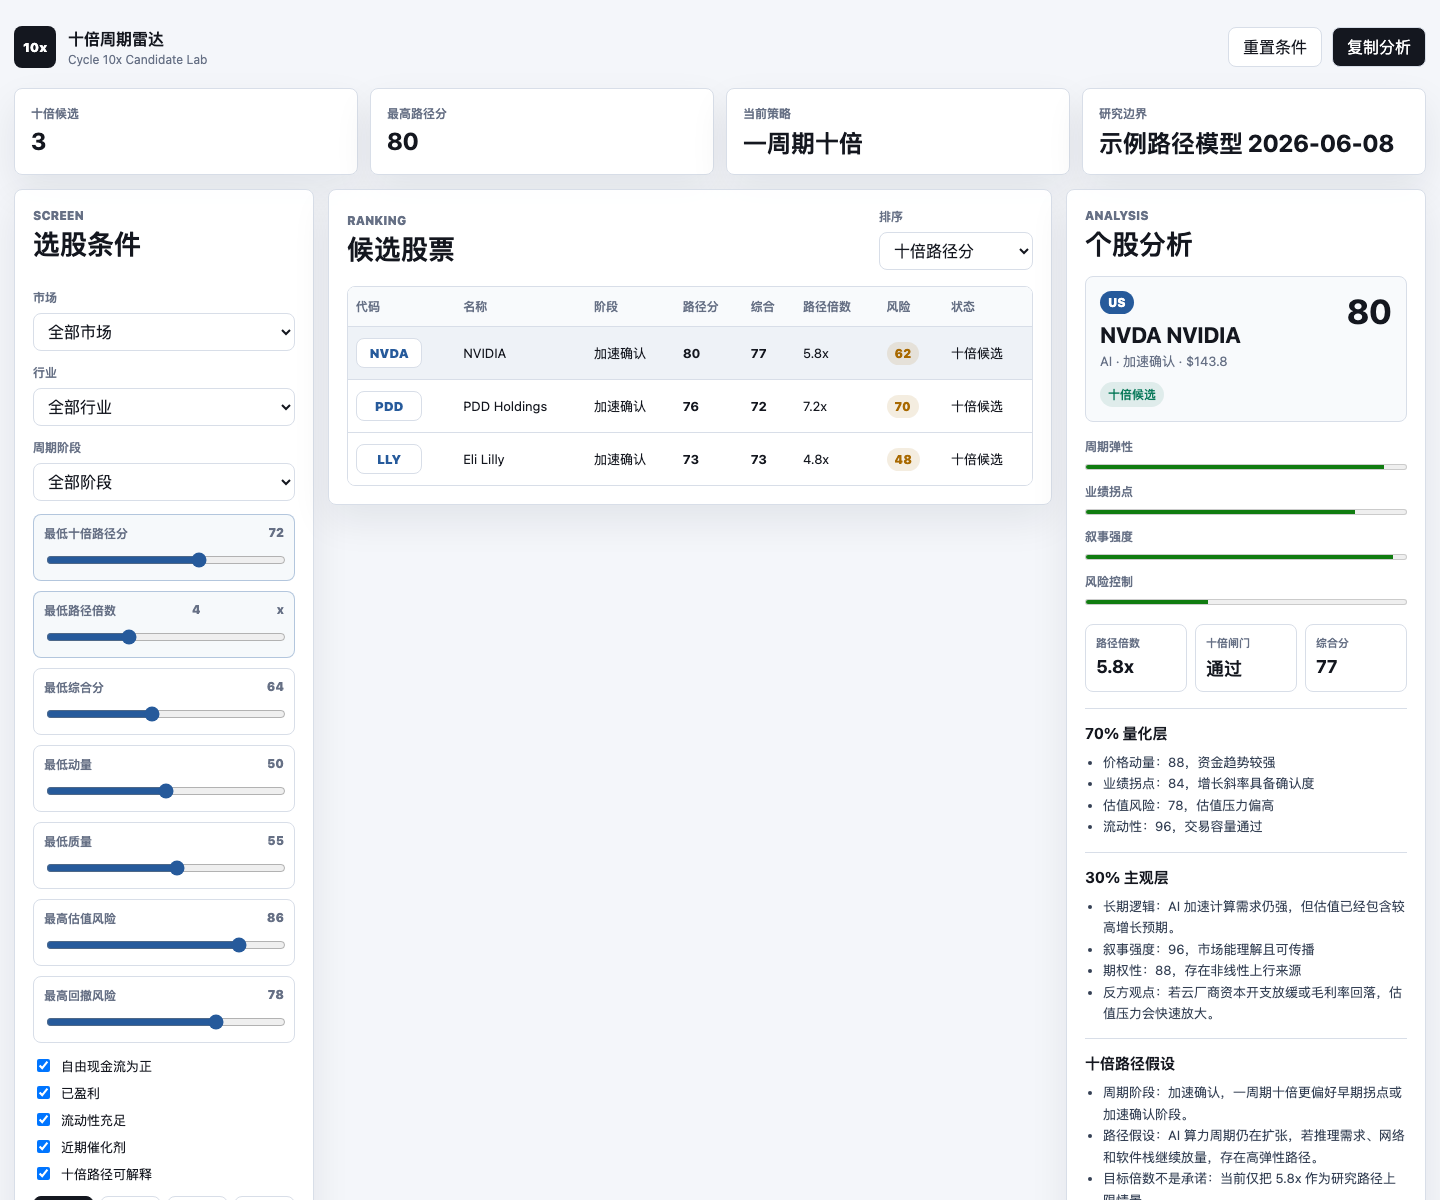
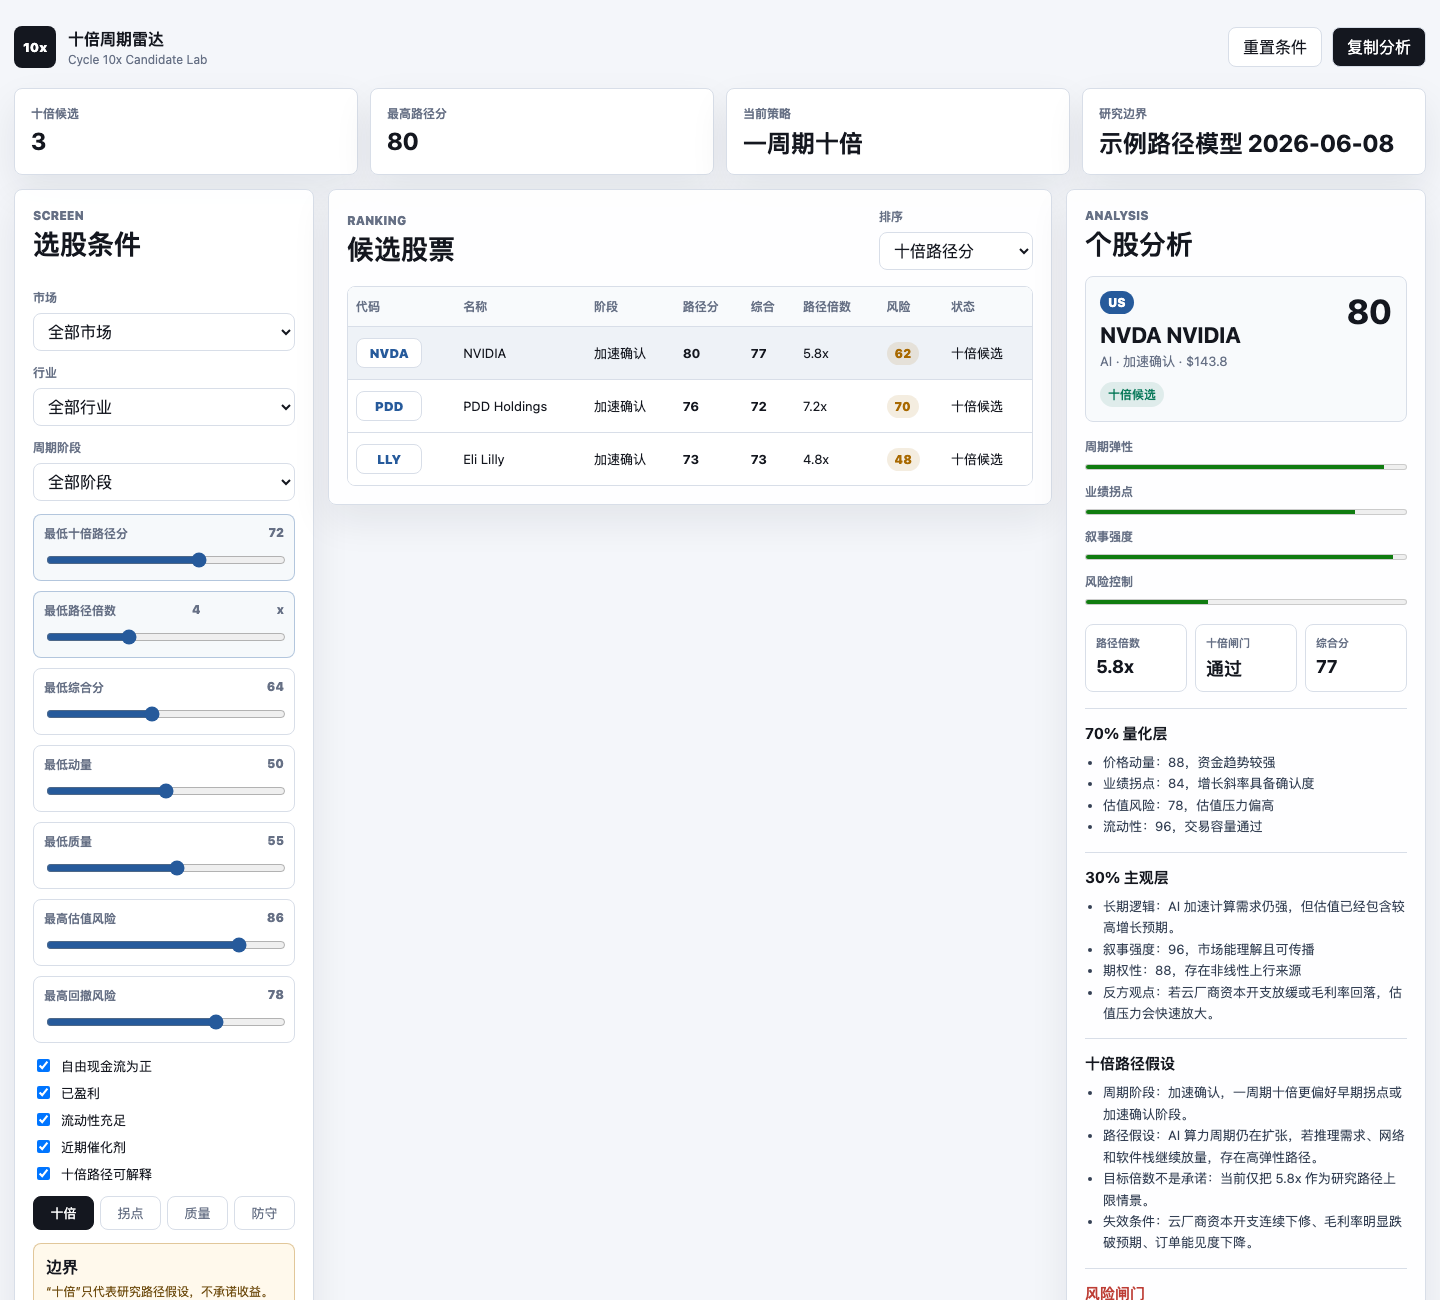
Add local data import for ten bagger screening

diff --git a/app.js b/app.js
@@ -1,4 +1,4 @@
-const stocks = [
+let stocks = [
   {
     ticker: 'NVDA',
     name: 'NVIDIA',
@@ -216,6 +216,8 @@ const stocks = [
     bear: '海外监管、补贴强度和竞争加剧可能影响利润质量。',
   },
 ];
+
+const sampleStocks = stocks.map(stock => ({ ...stock }));
 
 const stockMeta = {
   NVDA: {
@@ -454,6 +456,10 @@ const els = {
   liquid: document.getElementById('liquidInput'),
   hasCatalyst: document.getElementById('hasCatalystInput'),
   tenXGate: document.getElementById('tenXGateInput'),
+  dataInput: document.getElementById('dataInput'),
+  importBtn: document.getElementById('importBtn'),
+  sampleBtn: document.getElementById('sampleBtn'),
+  importStatus: document.getElementById('importStatus'),
   sort: document.getElementById('sortInput'),
   stockRows: document.getElementById('stockRows'),
   emptyState: document.getElementById('emptyState'),
@@ -476,6 +482,7 @@ const els = {
 
 let selectedTicker = stocks[0].ticker;
 let activePreset = 'tenx';
+let dataMode = 'sample';
 
 function escapeHtml(value) {
   return String(value ?? '').replace(/[&<>"']/g, ch => ({
@@ -562,7 +569,7 @@ function getFilters() {
 
 function enrichedStocks() {
   return stocks.map(stock => {
-    const meta = stockMeta[stock.ticker] ?? {
+    const defaultMeta = {
       cyclePhase: 'mid',
       cycleLabel: '中段扩张',
       cycleElasticity: 50,
@@ -574,6 +581,9 @@ function enrichedStocks() {
       path: '缺少十倍路径数据。',
       invalidation: '数据缺失。',
     };
+    const meta = stock.source === 'imported'
+      ? { ...defaultMeta, ...stock }
+      : { ...defaultMeta, ...stock, ...(stockMeta[stock.ticker] ?? {}) };
     const full = { ...stock, ...meta };
     return { ...full, ...scoreStock(full) };
   });
@@ -726,7 +736,9 @@ function updateLabels() {
   els.valuationRiskValue.textContent = els.valuationRisk.value;
   els.drawdownValue.textContent = els.drawdown.value;
   els.strategyName.textContent = presets[activePreset]?.name ?? '自定义';
-  els.dataStamp.textContent = '示例路径模型 2026-06-08';
+  els.dataStamp.textContent = dataMode === 'sample'
+    ? '示例路径模型 2026-06-08'
+    : '本地导入数据';
 }
 
 function render() {
@@ -769,7 +781,7 @@ function analysisText() {
   const stock = enrichedStocks().find(item => item.ticker === selectedTicker) ?? enrichedStocks()[0];
   return [
     `标的/主题：${stock.ticker} ${stock.name}`,
-    '数据时点：示例静态数据 2026-06-08',
+    `数据时点：${dataMode === 'sample' ? '示例静态数据 2026-06-08' : '本地导入数据，需自行确认来源和时间戳'}`,
     '适用对象假设：仅用于一周期十倍候选研究，不构成个性化投资建议',
     '',
     `十倍路径分：${stock.pathScore}`,
@@ -827,6 +839,116 @@ function analysisText() {
   });
 });
 
+function parseBoolean(value) {
+  const text = String(value ?? '').trim().toLowerCase();
+  return ['1', 'true', 'yes', 'y', '是', '有'].includes(text);
+}
+
+function parseNumber(value, fallback) {
+  const parsed = Number(value);
+  return Number.isFinite(parsed) ? parsed : fallback;
+}
+
+function splitCsvLine(line) {
+  const cells = [];
+  let current = '';
+  let quoted = false;
+  for (let index = 0; index < line.length; index += 1) {
+    const char = line[index];
+    const next = line[index + 1];
+    if (char === '"' && quoted && next === '"') {
+      current += '"';
+      index += 1;
+    } else if (char === '"') {
+      quoted = !quoted;
+    } else if (char === ',' && !quoted) {
+      cells.push(current.trim());
+      current = '';
+    } else {
+      current += char;
+    }
+  }
+  cells.push(current.trim());
+  return cells;
+}
+
+function parseRows(text) {
+  const trimmed = text.trim();
+  if (!trimmed) return [];
+  if (trimmed.startsWith('[')) {
+    const parsed = JSON.parse(trimmed);
+    if (!Array.isArray(parsed)) throw new Error('JSON 必须是数组');
+    return parsed;
+  }
+  const lines = trimmed.split(/\r?\n/).filter(Boolean);
+  const headers = splitCsvLine(lines[0]).map(header => header.trim());
+  return lines.slice(1).map(line => {
+    const cells = splitCsvLine(line);
+    return headers.reduce((row, header, index) => {
+      row[header] = cells[index] ?? '';
+      return row;
+    }, {});
+  });
+}
+
+function normalizeImportedStock(row, index) {
+  const ticker = String(row.ticker ?? row.code ?? '').trim().toUpperCase();
+  if (!ticker) throw new Error(`第 ${index + 1} 行缺少 ticker`);
+  return {
+    source: 'imported',
+    ticker,
+    name: String(row.name ?? ticker).trim(),
+    market: String(row.market ?? 'US').trim() || 'US',
+    sector: String(row.sector ?? 'AI').trim() || 'AI',
+    price: parseNumber(row.price, 0),
+    momentum: clamp(parseNumber(row.momentum, 50)),
+    quality: clamp(parseNumber(row.quality, 50)),
+    valuationRisk: clamp(parseNumber(row.valuationRisk, 60)),
+    drawdownRisk: clamp(parseNumber(row.drawdownRisk, 60)),
+    liquidity: clamp(parseNumber(row.liquidity, 70)),
+    growth: clamp(parseNumber(row.growth, 55)),
+    fcfPositive: row.fcfPositive === undefined ? true : parseBoolean(row.fcfPositive),
+    profitable: row.profitable === undefined ? true : parseBoolean(row.profitable),
+    catalyst: row.catalyst === undefined ? false : parseBoolean(row.catalyst),
+    cyclePhase: String(row.cyclePhase ?? 'mid').trim() || 'mid',
+    cycleLabel: String(row.cycleLabel ?? '中段扩张').trim() || '中段扩张',
+    cycleElasticity: clamp(parseNumber(row.cycleElasticity, parseNumber(row.momentum, 50))),
+    earningsInflection: clamp(parseNumber(row.earningsInflection, parseNumber(row.growth, 55))),
+    narrativePower: clamp(parseNumber(row.narrativePower, 55)),
+    optionality: clamp(parseNumber(row.optionality, 55)),
+    pathMultiple: parseNumber(row.pathMultiple, 2),
+    tenXGate: row.tenXGate === undefined ? parseNumber(row.pathMultiple, 2) >= 4 : parseBoolean(row.tenXGate),
+    thesis: String(row.thesis ?? '导入数据未提供长期逻辑。').trim(),
+    bear: String(row.bear ?? '导入数据未提供反方观点。').trim(),
+    path: String(row.path ?? '导入数据未提供十倍路径假设。').trim(),
+    invalidation: String(row.invalidation ?? '导入数据未提供失效条件。').trim(),
+  };
+}
+
+function importData() {
+  try {
+    const rows = parseRows(els.dataInput.value);
+    const imported = rows.map(normalizeImportedStock);
+    if (!imported.length) throw new Error('没有可导入的数据');
+    stocks = imported;
+    dataMode = 'imported';
+    selectedTicker = stocks[0].ticker;
+    els.importStatus.textContent = `已导入 ${stocks.length} 条数据。缺失路径字段会使用中性默认值。`;
+    render();
+  } catch (error) {
+    els.importStatus.textContent = `导入失败：${error.message}`;
+  }
+}
+
+function restoreSampleData() {
+  stocks = sampleStocks.map(stock => ({ ...stock }));
+  dataMode = 'sample';
+  selectedTicker = stocks[0].ticker;
+  els.dataInput.value = '';
+  els.importStatus.textContent = '当前使用内置示例数据。';
+  render();
+}
+
 els.stockRows.addEventListener('click', event => {
   const row = event.target.closest('[data-ticker]');
   if (!row) return;
@@ -837,6 +959,9 @@ els.stockRows.addEventListener('click', event => {
 els.tabs.forEach(tab => {
   tab.addEventListener('click', () => applyPreset(tab.dataset.preset));
 });
+
+els.importBtn.addEventListener('click', importData);
+els.sampleBtn.addEventListener('click', restoreSampleData);
 
 els.reset.addEventListener('click', () => {
   els.market.value = 'all';

diff --git a/styles.css b/styles.css
@@ -26,7 +26,8 @@ body {
 
 button,
 input,
-select {
+select,
+textarea {
   font: inherit;
 }
 
@@ -214,7 +215,8 @@ input[type="range"] {
   accent-color: var(--blue);
 }
 
-select {
+select,
+textarea {
   min-height: 38px;
   border: 1px solid var(--line);
   border-radius: 8px;
@@ -223,8 +225,16 @@ select {
   background: #fff;
 }
 
+textarea {
+  min-height: 112px;
+  padding: 10px;
+  resize: vertical;
+  line-height: 1.45;
+}
+
 select:focus,
-input:focus {
+input:focus,
+textarea:focus {
   outline: none;
   border-color: rgba(38, 90, 155, .55);
   box-shadow: 0 0 0 3px rgba(38, 90, 155, .12);
@@ -303,6 +313,32 @@ input:focus {
   color: #6f4d10;
   font-size: 12px;
   line-height: 1.55;
+}
+
+.import-box {
+  display: grid;
+  gap: 9px;
+  border: 1px solid var(--line);
+  border-radius: 8px;
+  padding: 12px;
+  background: #fff;
+}
+
+.import-box strong {
+  display: block;
+}
+
+.import-actions {
+  display: grid;
+  grid-template-columns: repeat(2, minmax(0, 1fr));
+  gap: 8px;
+}
+
+.import-box p {
+  margin: 0;
+  color: var(--muted);
+  font-size: 12px;
+  line-height: 1.5;
 }
 
 .table-wrap {

diff --git a/index.html b/index.html
@@ -131,6 +131,16 @@
           <strong>边界</strong>
           <p>“十倍”只代表研究路径假设，不承诺收益。真实上线前必须接入实时行情、财报、公告、新闻、成交量和更新时间。</p>
         </div>
+
+        <div class="import-box">
+          <strong>数据导入</strong>
+          <textarea id="dataInput" rows="5" placeholder="粘贴 CSV 或 JSON 数组。字段示例：ticker,name,market,sector,price,momentum,quality,valuationRisk,drawdownRisk,liquidity,growth,pathMultiple"></textarea>
+          <div class="import-actions">
+            <button class="ghost-btn" id="importBtn" type="button">导入</button>
+            <button class="ghost-btn" id="sampleBtn" type="button">恢复示例</button>
+          </div>
+          <p id="importStatus">当前使用内置示例数据。</p>
+        </div>
       </aside>
 
       <section class="panel result-panel">

diff --git a/README.md b/README.md
@@ -53,6 +53,7 @@ git push -u origin main
 - 单只股票 70% 量化 + 30% 主观 + 十倍路径假设
 - 风险闸门、反方观点、失效条件、数据缺口提示
 - 一周期跟踪闸门和前五候选对比
+- 支持粘贴 CSV 或 JSON 数组做本地数据导入
 - 一键复制当前个股分析
 
 ## 边界